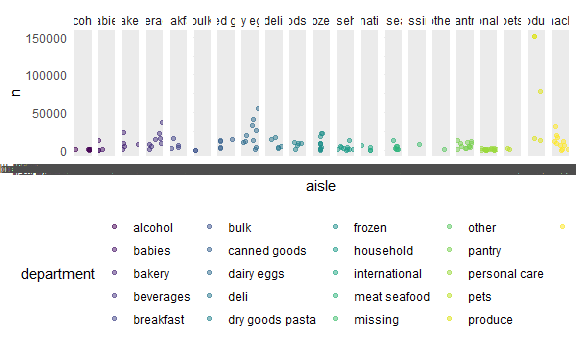
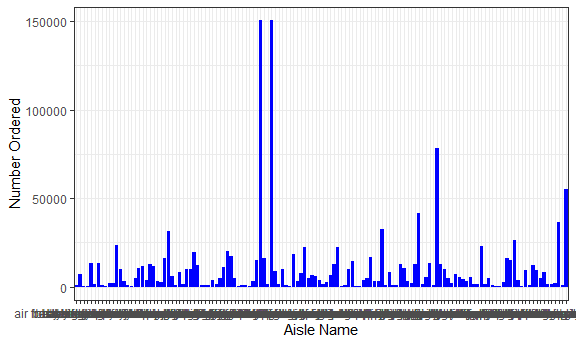
Added graph labels

Changed region(s): [[0.0, 0.029, 1.0, 0.9855], [0.25, 0.3768, 0.3125, 0.4348], [0.0312, 0.2029, 0.125, 0.2319]]

diff --git a/p8105_hw3_acm2268.md b/p8105_hw3_acm2268.md
@@ -113,7 +113,11 @@ There are 134 aisles and the most items are ordered from aisles 83, 24,
 ``` r
 n_items_df = instacart %>% 
   group_by(aisle, department) %>%
-  summarise(n = n())
+  summarize(n = n()) %>%
+  mutate(
+    aisle = factor(aisle),
+    fct_reorder(aisle, n)
+  )
 ```
 
     ## `summarise()` has grouped output by 'aisle'. You can override using the `.groups` argument.
@@ -123,26 +127,29 @@ filter(n_items_df, n > 10000) %>%
 print()
 ```
 
-    ## # A tibble: 39 x 3
+    ## # A tibble: 39 x 4
     ## # Groups:   aisle [39]
-    ##    aisle                    department       n
-    ##    <chr>                    <chr>        <int>
-    ##  1 baby food formula        babies       13198
-    ##  2 baking ingredients       pantry       13088
-    ##  3 bread                    bakery       23635
-    ##  4 butter                   dairy eggs   10575
-    ##  5 candy chocolate          snacks       11453
-    ##  6 canned jarred vegetables canned goods 12679
-    ##  7 canned meals beans       canned goods 11774
-    ##  8 cereal                   breakfast    16201
-    ##  9 chips pretzels           snacks       31269
-    ## 10 crackers                 snacks       19592
+    ##    aisle                    department       n `fct_reorder(aisle, n)` 
+    ##    <fct>                    <chr>        <int> <fct>                   
+    ##  1 baby food formula        babies       13198 baby food formula       
+    ##  2 baking ingredients       pantry       13088 baking ingredients      
+    ##  3 bread                    bakery       23635 bread                   
+    ##  4 butter                   dairy eggs   10575 butter                  
+    ##  5 candy chocolate          snacks       11453 candy chocolate         
+    ##  6 canned jarred vegetables canned goods 12679 canned jarred vegetables
+    ##  7 canned meals beans       canned goods 11774 canned meals beans      
+    ##  8 cereal                   breakfast    16201 cereal                  
+    ##  9 chips pretzels           snacks       31269 chips pretzels          
+    ## 10 crackers                 snacks       19592 crackers                
     ## # ... with 29 more rows
 
 ``` r
-ggplot(n_items_df, aes(x = aisle, y = n, color = department)) + 
-  geom_point(alpha = .5) +
-  facet_grid(. ~ department)
+ggplot(n_items_df, aes(x = aisle, y = n)) + 
+  geom_bar(stat = "identity", fill = "blue") +
+  theme(axis.text.x = element_text(family = "Arial", angle = 45)) +
+  labs(x = "Aisle Name", y = "Number Ordered") +
+  scale_size_area(max_size = 10) +
+  theme_bw()
 ```
 
 <img src="p8105_hw3_acm2268_files/figure-gfm/p1_plot_n_items_ordered-1.png" width="90%" />
@@ -158,24 +165,24 @@ pop_items_df = instacart %>%
   mutate(
     popular_rank = min_rank(desc(n))) %>%
     filter(popular_rank <= 3) %>%
-  relocate(aisle, popular_rank)
+  arrange(aisle, popular_rank)
   
 print(pop_items_df)
 ```
 
     ## # A tibble: 9 x 4
     ## # Groups:   aisle [3]
-    ##   aisle                      popular_rank product_name                         n
-    ##   <chr>                             <int> <chr>                            <int>
-    ## 1 baking ingredients                    1 Light Brown Sugar                  157
-    ## 2 baking ingredients                    3 Organic Vanilla Extract            122
-    ## 3 baking ingredients                    2 Pure Baking Soda                   140
-    ## 4 dog food care                         2 Organix Chicken & Brown Rice Re~    13
-    ## 5 dog food care                         1 Organix Grain Free Chicken & Ve~    14
-    ## 6 dog food care                         3 Original Dry Dog                     9
-    ## 7 packaged vegetables fruits            1 Organic Baby Spinach              3324
-    ## 8 packaged vegetables fruits            3 Organic Blueberries               1692
-    ## 9 packaged vegetables fruits            2 Organic Raspberries               1920
+    ##   aisle                      product_name                         n popular_rank
+    ##   <chr>                      <chr>                            <int>        <int>
+    ## 1 baking ingredients         Light Brown Sugar                  157            1
+    ## 2 baking ingredients         Pure Baking Soda                   140            2
+    ## 3 baking ingredients         Organic Vanilla Extract            122            3
+    ## 4 dog food care              Organix Grain Free Chicken & Ve~    14            1
+    ## 5 dog food care              Organix Chicken & Brown Rice Re~    13            2
+    ## 6 dog food care              Original Dry Dog                     9            3
+    ## 7 packaged vegetables fruits Organic Baby Spinach              3324            1
+    ## 8 packaged vegetables fruits Organic Raspberries               1920            2
+    ## 9 packaged vegetables fruits Organic Blueberries               1692            3
 
 \#\#Table: Mean hour at which Pink Lady Apples and Coffee Ice Cream are
 ordered each day of the week
@@ -183,7 +190,7 @@ ordered each day of the week
 ``` r
 instacart %>% 
   mutate(
-    order_dow = recode(order_dow, `0` = "Monday", `1` = "Tuesday", `2` = "Wednesday", `3` = "Thursday", `4` = "Friday", `5` = "Saturday", `6` = "Sunday")) %>%
+    order_dow = recode(order_dow, `0` = "Sunday", `1` = "Monday", `2` = "Tuesday", `3` = "Wednesday", `4` = "Thursday", `5` = "Friday", `6` = "Saturday")) %>%
   select(product_name, order_dow, order_hour_of_day) %>% 
   filter(product_name %in% c("Pink Lady Apples", "Coffee Ice Cream")) %>%
   group_by(product_name, order_dow) %>%
@@ -198,8 +205,8 @@ instacart %>%
     ## # Groups:   product_name [2]
     ##   product_name     Friday Monday Saturday Sunday Thursday Tuesday Wednesday
     ##   <chr>             <dbl>  <dbl>    <dbl>  <dbl>    <dbl>   <dbl>     <dbl>
-    ## 1 Coffee Ice Cream   15.2   13.8     12.3   13.8     15.3    14.3      15.4
-    ## 2 Pink Lady Apples   11.6   13.4     12.8   11.9     14.2    11.4      11.7
+    ## 1 Coffee Ice Cream   12.3   14.3     13.8   13.8     15.2    15.4      15.3
+    ## 2 Pink Lady Apples   12.8   11.4     11.9   13.4     11.6    11.7      14.2
 
 \#Question 2: BRFSS
 
@@ -322,14 +329,12 @@ str(brfss_smart2010)
 
 ``` r
 brfss_df = select(brfss_smart2010, year = Year, state_abbr = Locationabbr, location_desc = Locationdesc, topic = Topic, response = Response, data_value = Data_value, data_type = Data_value_type, data_unit = Data_value_unit ) %>%
-  filter(topic == "Overall Health" & response %in% c("Excellent", "Very Good", "Good", "Fair", "Poor")) %>%
+  filter(topic == "Overall Health" & response %in% c("Excellent", "Good", "Fair", "Poor")) %>%
   mutate(
     response = factor(response),
-    response = forcats::fct_relevel(response, c("Poor", "Fair", "Good", "Very Good", "Excellent"))
+    response = forcats::fct_relevel(response, c("Poor", "Fair", "Good", "Excellent"))
   ) 
 ```
-
-    ## Warning: Unknown levels in `f`: Very Good
 
 \#\#BRFSS exploratory data analysis
 
@@ -412,39 +417,11 @@ ny_df = select(brfss_df, year, state_abbr, location_desc, response, data_value) 
 
 ggplot(ny_df, aes(x = data_value, fill = response)) + 
   geom_density(alpha = .4, adjust = .5, color = "blue") +
-  facet_grid(. ~ year)
+  facet_grid(. ~ year) +
+  labs(x = "Data Values", y = "Density", title = "Distribution of Data Values by Response Type among Locations in NY State: 2006 vs. 2010")
 ```
 
 <img src="p8105_hw3_acm2268_files/figure-gfm/unnamed-chunk-1-1.png" width="90%" />
-
-``` r
-ny_df %>% 
-  ungroup(response)
-```
-
-    ## # A tibble: 60 x 5
-    ## # Groups:   year [2]
-    ##     year state_abbr location_desc     response  data_value
-    ##    <int> <chr>      <chr>             <fct>          <dbl>
-    ##  1  2010 NY         NY - Bronx County Excellent       17.6
-    ##  2  2010 NY         NY - Bronx County Good            35.1
-    ##  3  2010 NY         NY - Bronx County Fair            16.7
-    ##  4  2010 NY         NY - Bronx County Poor             4.7
-    ##  5  2010 NY         NY - Erie County  Excellent       17.2
-    ##  6  2010 NY         NY - Erie County  Good            29.6
-    ##  7  2010 NY         NY - Erie County  Fair            12.7
-    ##  8  2010 NY         NY - Erie County  Poor             2.5
-    ##  9  2010 NY         NY - Kings County Excellent       22.4
-    ## 10  2010 NY         NY - Kings County Good            30.6
-    ## # ... with 50 more rows
-
-``` r
-ggplot(ny_df, aes(x = data_value, fill = state_abbr)) + 
-  geom_density(alpha = .4, adjust = .5, color = "blue") +
-  facet_grid(. ~ year)
-```
-
-<img src="p8105_hw3_acm2268_files/figure-gfm/unnamed-chunk-1-2.png" width="90%" />
 
 \#Question 3: Accelerometer
 
@@ -452,12 +429,7 @@ ggplot(ny_df, aes(x = data_value, fill = state_abbr)) +
 
 ``` r
 accel_df = read_csv(file = "./data/accel_data.csv") %>%
-janitor::clean_names() %>%
-  mutate(
-    type_of_day = ifelse(day %in% c("Monday", "Tuesday", "Wednesday", "Thursday", "Friday"), "weekday", 
-                         ifelse(day %in% c("Saturday", "Sunday"), "weekend", ""))
-    ) %>%
-  relocate(week, type_of_day)
+  janitor::clean_names()
 ```
 
     ## Rows: 35 Columns: 1443
@@ -472,137 +444,61 @@ janitor::clean_names() %>%
     ## i Specify the column types or set `show_col_types = FALSE` to quiet this message.
 
 ``` r
-str(accel_df)
-```
+accel_cleaned = accel_df %>%
+  mutate(
+    type_of_day = ifelse(day %in% c("Monday", "Tuesday", "Wednesday", "Thursday", "Friday"), "weekday", 
+                         ifelse(day %in% c("Saturday", "Sunday"), "weekend", ""))
+    ) %>%
+  relocate(week, type_of_day) %>%
+  pivot_longer(
+    cols = activity_1:activity_1440, 
+    names_to = "activity_number",
+    names_prefix = "activity_",
+    values_to = "activity_count") %>%
+  mutate(
+    activity_number = as.numeric(activity_number)
+  )
 
-    ## tibble [35 x 1,444] (S3: tbl_df/tbl/data.frame)
-    ##  $ week         : num [1:35] 1 1 1 1 1 1 1 2 2 2 ...
-    ##  $ type_of_day  : chr [1:35] "weekday" "weekday" "weekend" "weekend" ...
-    ##  $ day_id       : num [1:35] 1 2 3 4 5 6 7 8 9 10 ...
-    ##  $ day          : chr [1:35] "Friday" "Monday" "Saturday" "Sunday" ...
-    ##  $ activity_1   : num [1:35] 88.4 1 1 1 47.4 ...
-    ##  $ activity_2   : num [1:35] 82.2 1 1 1 48.8 ...
-    ##  $ activity_3   : num [1:35] 64.4 1 1 1 46.9 ...
-    ##  $ activity_4   : num [1:35] 70 1 1 1 35.8 ...
-    ##  $ activity_5   : num [1:35] 75 1 1 1 49 ...
-    ##  $ activity_6   : num [1:35] 66.3 1 1 1 44.8 ...
-    ##  $ activity_7   : num [1:35] 53.8 1 1 1 73.4 ...
-    ##  $ activity_8   : num [1:35] 47.8 1 1 1 24.3 ...
-    ##  $ activity_9   : num [1:35] 55.5 1 1 1 34.5 ...
-    ##  $ activity_10  : num [1:35] 43 1 1 1 72.8 ...
-    ##  $ activity_11  : num [1:35] 46.8 1 1 1 40.4 ...
-    ##  $ activity_12  : num [1:35] 25.5 1 1 1 56.1 ...
-    ##  $ activity_13  : num [1:35] 19 1 1 32 50 ...
-    ##  $ activity_14  : num [1:35] 31.1 1 1 1 35.3 ...
-    ##  $ activity_15  : num [1:35] 22.9 1 1 1 35.5 ...
-    ##  $ activity_16  : num [1:35] 24.8 1 1 1 59.7 ...
-    ##  $ activity_17  : num [1:35] 51 1 1 32 28.3 ...
-    ##  $ activity_18  : num [1:35] 35.5 1 1 1 32 ...
-    ##  $ activity_19  : num [1:35] 41 1 1 85 48.8 ...
-    ##  $ activity_20  : num [1:35] 59 1 1 116 31.7 ...
-    ##  $ activity_21  : num [1:35] 25.2 1 1 1 21 ...
-    ##  $ activity_22  : num [1:35] 19.4 1 1 1 17.8 ...
-    ##  $ activity_23  : num [1:35] 44.7 1 1 1 32.6 ...
-    ##  $ activity_24  : num [1:35] 17.1 1 1 1 18.1 ...
-    ##  $ activity_25  : num [1:35] 43.9 1 1 1 61.2 ...
-    ##  $ activity_26  : num [1:35] 47.5 1 1 1 56.6 ...
-    ##  $ activity_27  : num [1:35] 46.1 1 1 11 55.2 ...
-    ##  $ activity_28  : num [1:35] 34.6 1 1 1 92.1 ...
-    ##  $ activity_29  : num [1:35] 40.3 1 1 150 31.3 ...
-    ##  $ activity_30  : num [1:35] 46.5 1 1 1 45.5 ...
-    ##  $ activity_31  : num [1:35] 53.2 1 379 11 37.9 ...
-    ##  $ activity_32  : num [1:35] 23.8 1 696 1 22.2 ...
-    ##  $ activity_33  : num [1:35] 35.3 1 759 1 18.2 ...
-    ##  $ activity_34  : num [1:35] 30.7 1 1168 64 26 ...
-    ##  $ activity_35  : num [1:35] 40.1 1 150 276 19.5 ...
-    ##  $ activity_36  : num [1:35] 25.3 1 53 1 8.2 ...
-    ##  $ activity_37  : num [1:35] 8.89 1 95 1 16.6 ...
-    ##  $ activity_38  : num [1:35] 14.7 1 150 1 18.1 ...
-    ##  $ activity_39  : num [1:35] 18.5 1 32 1 39.6 ...
-    ##  $ activity_40  : num [1:35] 40.7 1 74 1 21.2 ...
-    ##  $ activity_41  : num [1:35] 20 1 137 1 30.4 ...
-    ##  $ activity_42  : num [1:35] 37.1 1 305 1 38.3 ...
-    ##  $ activity_43  : num [1:35] 22.6 1 305 1 53 ...
-    ##  $ activity_44  : num [1:35] 22.8 1 43 1 37.2 ...
-    ##  $ activity_45  : num [1:35] 16.1 1 85 163 45.8 ...
-    ##  $ activity_46  : num [1:35] 29.8 1 64 1 22.4 ...
-    ##  $ activity_47  : num [1:35] 39.4 1 1 1 20.6 ...
-    ##  $ activity_48  : num [1:35] 29.7 1 1 1 37.3 ...
-    ##  $ activity_49  : num [1:35] 54.8 1 1 95 42.3 ...
-    ##  $ activity_50  : num [1:35] 48.3 1 1 1 44 ...
-    ##  $ activity_51  : num [1:35] 66.1 1 1 1 41.8 ...
-    ##  $ activity_52  : num [1:35] 65.2 1 1 1 58.3 ...
-    ##  $ activity_53  : num [1:35] 35.7 1 1 1 63.8 ...
-    ##  $ activity_54  : num [1:35] 31.7 1 1 1 31.7 ...
-    ##  $ activity_55  : num [1:35] 26 1 1 1 24.6 ...
-    ##  $ activity_56  : num [1:35] 36.6 1 1 1 29.1 ...
-    ##  $ activity_57  : num [1:35] 25.2 1 1 1 19 ...
-    ##  $ activity_58  : num [1:35] 27.9 1 1 1 54.6 ...
-    ##  $ activity_59  : num [1:35] 58 1 1 1 35.9 ...
-    ##  $ activity_60  : num [1:35] 44.2 1 1 1 34.1 ...
-    ##  $ activity_61  : num [1:35] 46.8 1 1 1 40 ...
-    ##  $ activity_62  : num [1:35] 41.7 1 1 1 25.2 ...
-    ##  $ activity_63  : num [1:35] 57 1 1 1 35 ...
-    ##  $ activity_64  : num [1:35] 51.2 1 1 1 41.6 ...
-    ##  $ activity_65  : num [1:35] 63.5 1 1 1 23.9 ...
-    ##  $ activity_66  : num [1:35] 45.4 1 11 1 19.3 ...
-    ##  $ activity_67  : num [1:35] 44.89 1 1 1 8.64 ...
-    ##  $ activity_68  : num [1:35] 21.7 1 11 1 12.9 ...
-    ##  $ activity_69  : num [1:35] 11.6 1 1 1 11.7 ...
-    ##  $ activity_70  : num [1:35] 37.4 1 1 1 15 ...
-    ##  $ activity_71  : num [1:35] 36.1 1 1 1 22.7 ...
-    ##  $ activity_72  : num [1:35] 25.8 1 1 1 50.5 ...
-    ##  $ activity_73  : num [1:35] 15.1 1 1 1 19.6 ...
-    ##  $ activity_74  : num [1:35] 38.5 1 1 1 18.5 ...
-    ##  $ activity_75  : num [1:35] 46.7 1 1 1 34.1 ...
-    ##  $ activity_76  : num [1:35] 50.1 1 1 11 27.3 ...
-    ##  $ activity_77  : num [1:35] 52.5 1 1 43 33.8 ...
-    ##  $ activity_78  : num [1:35] 67.9 1 1 1 10.3 ...
-    ##  $ activity_79  : num [1:35] 71.4 1 1 1 11.2 ...
-    ##  $ activity_80  : num [1:35] 61.1 1 1 1 8.2 ...
-    ##  $ activity_81  : num [1:35] 35.4 1 1 74 27.6 ...
-    ##  $ activity_82  : num [1:35] 41.5 1 1 1 10.6 ...
-    ##  $ activity_83  : num [1:35] 46.6 1 1 74 28 ...
-    ##  $ activity_84  : num [1:35] 38.3 1 1 85 30.7 ...
-    ##  $ activity_85  : num [1:35] 23.4 1 1 1 57.1 ...
-    ##  $ activity_86  : num [1:35] 68.7 1 1 1 29.9 ...
-    ##  $ activity_87  : num [1:35] 44 1 1 1 41.9 ...
-    ##  $ activity_88  : num [1:35] 33.82 1 1 1 7.71 ...
-    ##  $ activity_89  : num [1:35] 21.3 1 1 1 19.4 ...
-    ##  $ activity_90  : num [1:35] 37.1 1 1 1 19.2 ...
-    ##  $ activity_91  : num [1:35] 46.8 1 1 1 7.8 ...
-    ##  $ activity_92  : num [1:35] 46.87 1 1 1 4.71 ...
-    ##  $ activity_93  : num [1:35] 39.78 1 1 1 7.27 ...
-    ##  $ activity_94  : num [1:35] 26.8 1 1 1 15.3 ...
-    ##  $ activity_95  : num [1:35] 22.7 1 1 1 25.9 ...
-    ##   [list output truncated]
+view(accel_cleaned)
+```
 
 \#\#Aggregate across minutes to create a total activity variable
 
 ``` r
-accel_df %>% 
-mutate(
-  total_activity = round(rowSums(select(., starts_with("activity")), na.rm = FALSE)), digit = 2) %>%
-  relocate(week, type_of_day, day_id, day, total_activity)
+accel_cleaned %>% 
+  group_by(day_id) %>%
+  summarize(total_activity = sum(activity_count))
 ```
 
-    ## # A tibble: 35 x 1,446
-    ##     week type_of_day day_id day       total_activity activity_1 activity_2
-    ##    <dbl> <chr>        <dbl> <chr>              <dbl>      <dbl>      <dbl>
-    ##  1     1 weekday          1 Friday            480543       88.4       82.2
-    ##  2     1 weekday          2 Monday             78828        1          1  
-    ##  3     1 weekend          3 Saturday          376254        1          1  
-    ##  4     1 weekend          4 Sunday            631105        1          1  
-    ##  5     1 weekday          5 Thursday          355924       47.4       48.8
-    ##  6     1 weekday          6 Tuesday           307094       64.8       59.5
-    ##  7     1 weekday          7 Wednesday         340115       71.1      103. 
-    ##  8     2 weekday          8 Friday            568839      675        542  
-    ##  9     2 weekday          9 Monday            295431      291        335  
-    ## 10     2 weekend         10 Saturday          607175       64         11  
-    ## # ... with 25 more rows, and 1,439 more variables: activity_3 <dbl>,
-    ## #   activity_4 <dbl>, activity_5 <dbl>, activity_6 <dbl>, activity_7 <dbl>,
-    ## #   activity_8 <dbl>, activity_9 <dbl>, activity_10 <dbl>, activity_11 <dbl>,
-    ## #   activity_12 <dbl>, activity_13 <dbl>, activity_14 <dbl>, activity_15 <dbl>,
-    ## #   activity_16 <dbl>, activity_17 <dbl>, activity_18 <dbl>, activity_19 <dbl>,
-    ## #   activity_20 <dbl>, activity_21 <dbl>, activity_22 <dbl>, activity_23 <dbl>,
-    ## #   activity_24 <dbl>, activity_25 <dbl>, activity_26 <dbl>, ...
+    ## # A tibble: 35 x 2
+    ##    day_id total_activity
+    ##     <dbl>          <dbl>
+    ##  1      1        480543.
+    ##  2      2         78828.
+    ##  3      3        376254 
+    ##  4      4        631105 
+    ##  5      5        355924.
+    ##  6      6        307094.
+    ##  7      7        340115.
+    ##  8      8        568839 
+    ##  9      9        295431 
+    ## 10     10        607175 
+    ## # ... with 25 more rows
+
+\#\#Create a plot that shows the 24-hour activity time courses for each
+day
+
+``` r
+accel_cleaned %>%
+  group_by(day, activity_number) %>%
+  ggplot(aes(x = activity_number, 
+             y = activity_count, 
+             color = day)) +
+  geom_smooth(se = FALSE) + 
+  theme(legend.position = "right") +
+  labs(x = "Minutes", y = "Activity Counts", title = "24-hour Activity by Minute per Day")
+```
+
+    ## `geom_smooth()` using method = 'gam' and formula 'y ~ s(x, bs = "cs")'
+
+<img src="p8105_hw3_acm2268_files/figure-gfm/p3_24h_plot-1.png" width="90%" />
